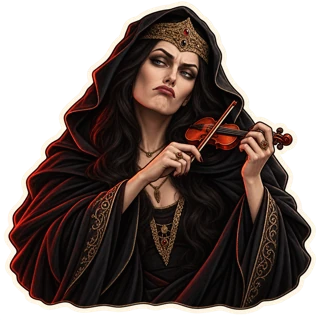
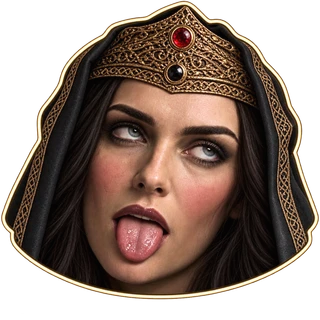
update smile

diff --git a/packages/ui/src/i18n/langs/premiumCosmetics.ts b/packages/ui/src/i18n/langs/premiumCosmetics.ts
@@ -6,7 +6,7 @@ const en = {
   puppeteer: 'The Puppeteer',
   'eclipse-queen': 'Queen of the Eclipse',
   'mordred-puppet': 'All according to plan',
-  'morgana-violin': 'So very sorry…',
+  'morgana-violin': 'Sigh…',
   puppeteerDescription: 'A knowing smile. You are pulling the strings.',
   queenDescription: 'A cold gaze beneath an eclipsed sun. Own the table.',
   puppetDescription: 'They fell for your bluff. Let them know who was pulling the strings.',
@@ -28,7 +28,7 @@ const ru: typeof en = {
   puppeteer: 'Кукловод',
   'eclipse-queen': 'Королева затмения',
   'mordred-puppet': 'Всё по моему плану',
-  'morgana-violin': 'Очень жаль…',
+  'morgana-violin': 'Вздох…',
   puppeteerDescription: 'Знающая усмешка. Нити этой партии в ваших руках.',
   queenDescription: 'Холодный взгляд на фоне затмения. За этим столом вас запомнят.',
   puppetDescription: 'Соперник повёлся на блеф? Покажите, кто дёргал за ниточки.',
@@ -50,7 +50,7 @@ const es: typeof en = {
   puppeteer: 'El Titiritero',
   'eclipse-queen': 'Reina del Eclipse',
   'mordred-puppet': 'Todo según el plan',
-  'morgana-violin': 'Qué pena…',
+  'morgana-violin': 'Suspiro…',
   puppeteerDescription: 'Una sonrisa cómplice. Tú mueves los hilos.',
   queenDescription: 'Una mirada fría bajo un eclipse. Domina la mesa.',
   puppetDescription: 'Han caído en tu farol. Demuestra quién movía los hilos.',
@@ -72,7 +72,7 @@ const pt: typeof en = {
   puppeteer: 'O Marionetista',
   'eclipse-queen': 'Rainha do Eclipse',
   'mordred-puppet': 'Tudo conforme o plano',
-  'morgana-violin': 'Que pena…',
+  'morgana-violin': 'Suspiro…',
   puppeteerDescription: 'Um sorriso cúmplice. Você puxa os fios.',
   queenDescription: 'Um olhar frio sob um eclipse. Domine a mesa.',
   puppetDescription: 'Caíram no seu blefe. Mostre quem puxava os fios.',
@@ -94,7 +94,7 @@ const zhCN: typeof en = {
   puppeteer: '操偶师',
   'eclipse-queen': '日蚀女王',
   'mordred-puppet': '一切尽在计划中',
-  'morgana-violin': '真是遗憾啊…',
+  'morgana-violin': '叹气…',
   puppeteerDescription: '会心一笑，这一局由你掌控。',
   queenDescription: '日蚀下的冷峻目光，让全场记住你。',
   puppetDescription: '对手中了你的圈套？让他们看看谁在操纵丝线。',
@@ -115,7 +115,7 @@ const zhTW: typeof en = {
   puppeteer: '操偶師',
   'eclipse-queen': '日蝕女王',
   'mordred-puppet': '一切盡在計畫中',
-  'morgana-violin': '真是遺憾啊…',
+  'morgana-violin': '嘆氣…',
   puppeteerDescription: '會心一笑，這一局由你掌控。',
   queenDescription: '日蝕下的冷峻目光，讓全場記住你。',
   puppetDescription: '對手中了你的圈套？讓他們看看誰在操縱絲線。',

diff --git a/packages/ui/src/assets/images/premium/README.md b/packages/ui/src/assets/images/premium/README.md
@@ -32,14 +32,4 @@ Use case: stylized-concept. Create ONE transparent game reaction sticker for Ava
 
 ## morgana-violin
 
-Artwork: `../stickers/morgana-violin.webp`. The file and sticker ID are both `morgana-violin`. Generated with the built-in image_gen tool and resized to 320px with alpha preserved.
-
-Latest prompt (references: Morgana role portrait and previous violin sticker):
-
-Use case: stylized-concept. Edit the second reference sticker: replace the male Oberon character with MORGANA from the first reference portrait. Preserve the sticker's concept: sarcastic fake sympathy, exaggerated pitying pout, one eyebrow raised with amused condescending eyes, playing a comically tiny violin and tiny bow near chest. Morgana is a recognizable beautiful adult woman with long black hair, gold crown, black hooded robes, delicate gold jewelry, pale blue eyes from portrait. Feminine face and hands. Keep the same painterly dark medieval fantasy rendering, warm ivory die-cut outline, waist-up square composition, complete hands and silhouette within padding. The violin must read clearly at 96px. GENUINE transparent alpha background, no scenery, no checkerboard, no text, no watermark. This is the premium 'So very sorry…' game reaction sticker.
-
-Original generation:
-
-Reference: ../stickers/oberon-laugh.webp
-
-Use case: stylized-concept. Create ONE new transparent Avalon reaction sticker. Reference is Oberon sticker, preserve recognizable hooded dark-haired young man, black cloak and red accents, ivory die-cut outline and painterly rendering. Sarcastic fake sympathy: exaggerated pitying pout, one eyebrow raised and amused eyes, playing an absurdly tiny violin with a tiny bow near his chest, hands very clearly visible and violin readable. Message conveyed: oh, so sad, let me play the world's smallest violin for your excuses. Upper body square composition, full silhouette including hands inside padding. Dark medieval fantasy premium game sticker, readable at 96 pixels. GENUINE TRANSPARENT ALPHA background, no checkerboard, no scenery, no words, no watermark.
+Artwork: `../stickers/morgana-violin.webp`. Current source: user-selected `../stickers/morgana-sigh-closeup.png`, replacing the previous artwork and crop. Converted directly to 320×320 WebP (quality 90, alpha quality 100), preserving composition and transparency. The existing `morgana-violin` sticker ID is retained for favorites, Premium authorization and shared previews/gameplay.
